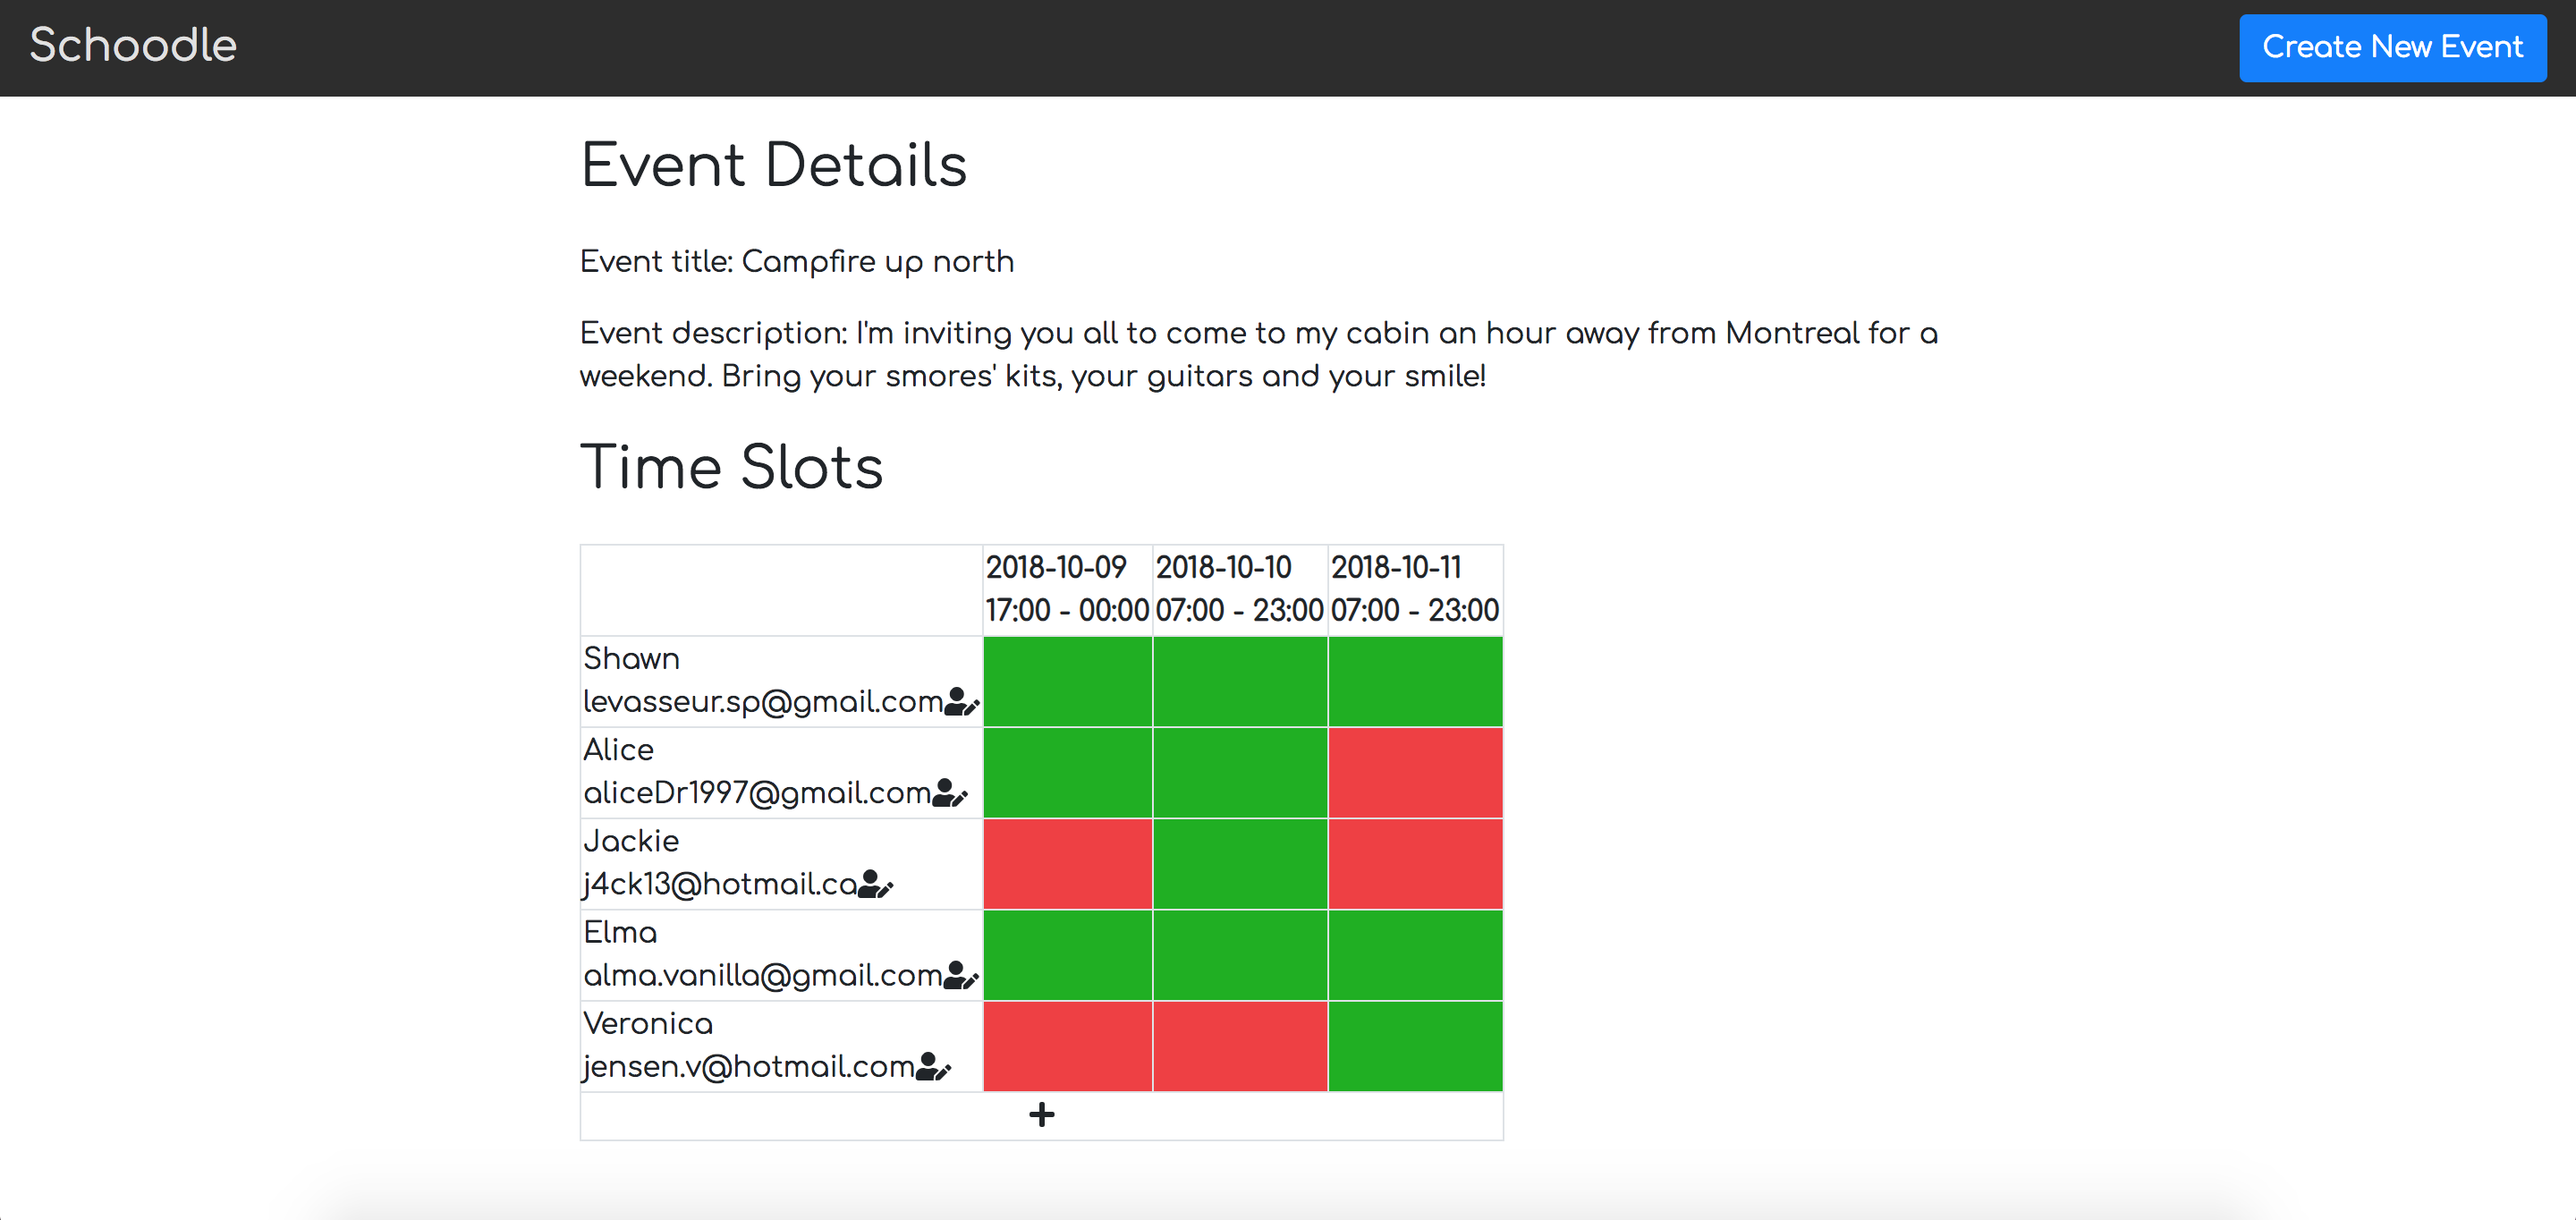
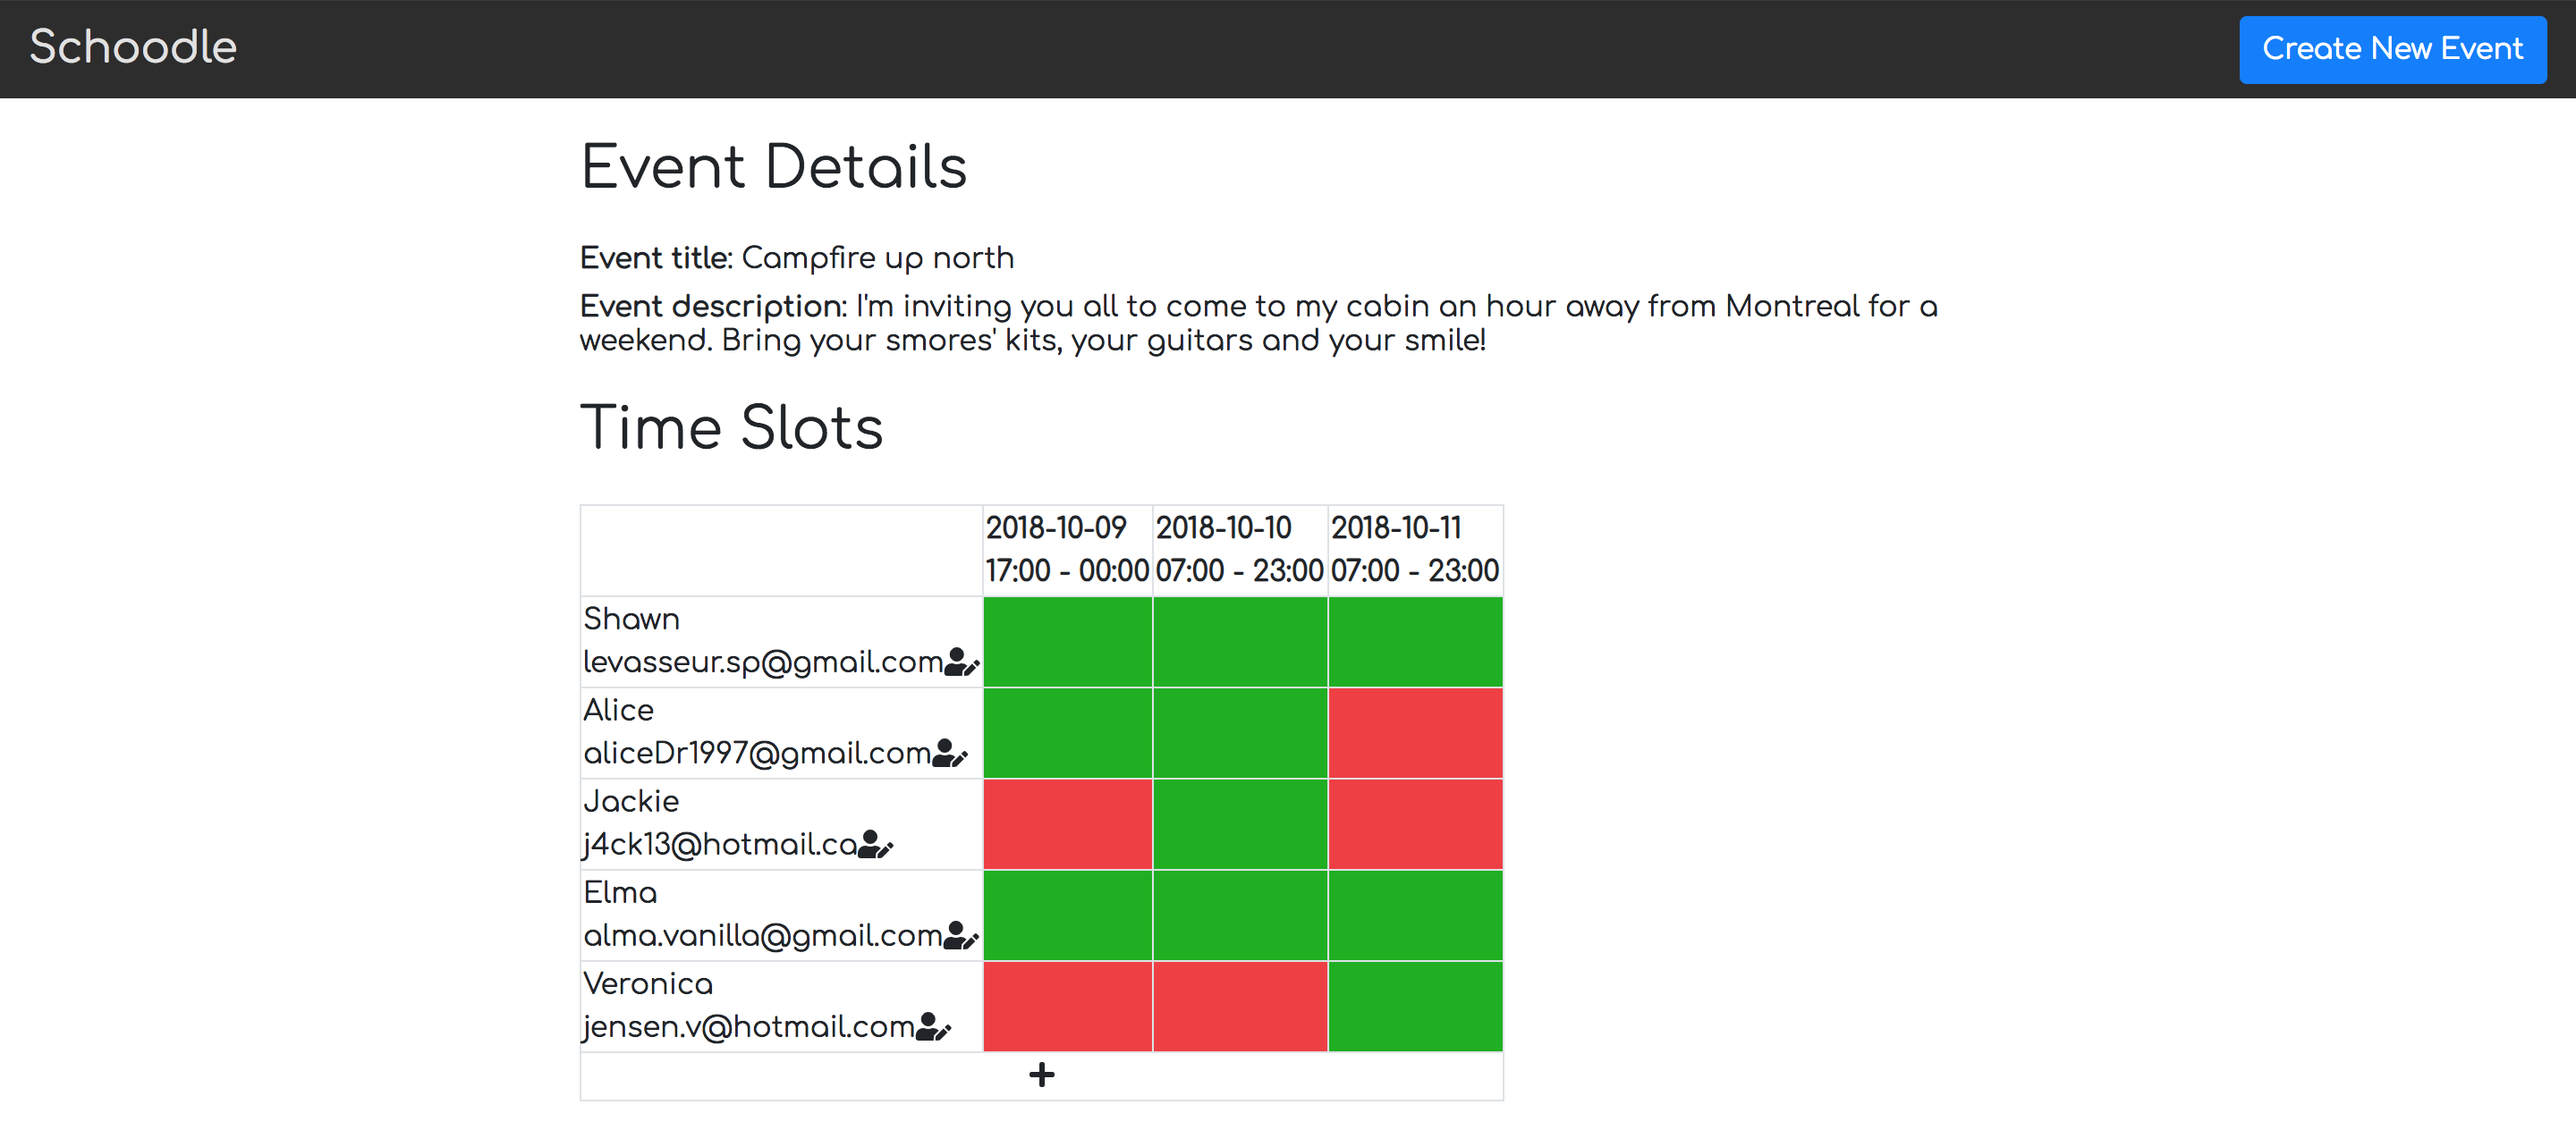
Changed the <p>s to <h6>s on the event page

diff --git a/public/scripts/app.js b/public/scripts/app.js
@@ -236,8 +236,8 @@ $(() => {
         //Display event details
         const eventDetails = `
           <h1>Event Details</h1>
-          <p>Event title: ${result[0].title}</p>
-          <p>Event description: ${result[0].description}</p>`;
+          <h6><strong>Event title</strong>: ${result[0].title}</h6>
+          <h6><strong>Event description</strong>: ${result[0].description}</h6>`;
         $(".event-details").prepend(eventDetails);
 
         //Filter through the attendees
